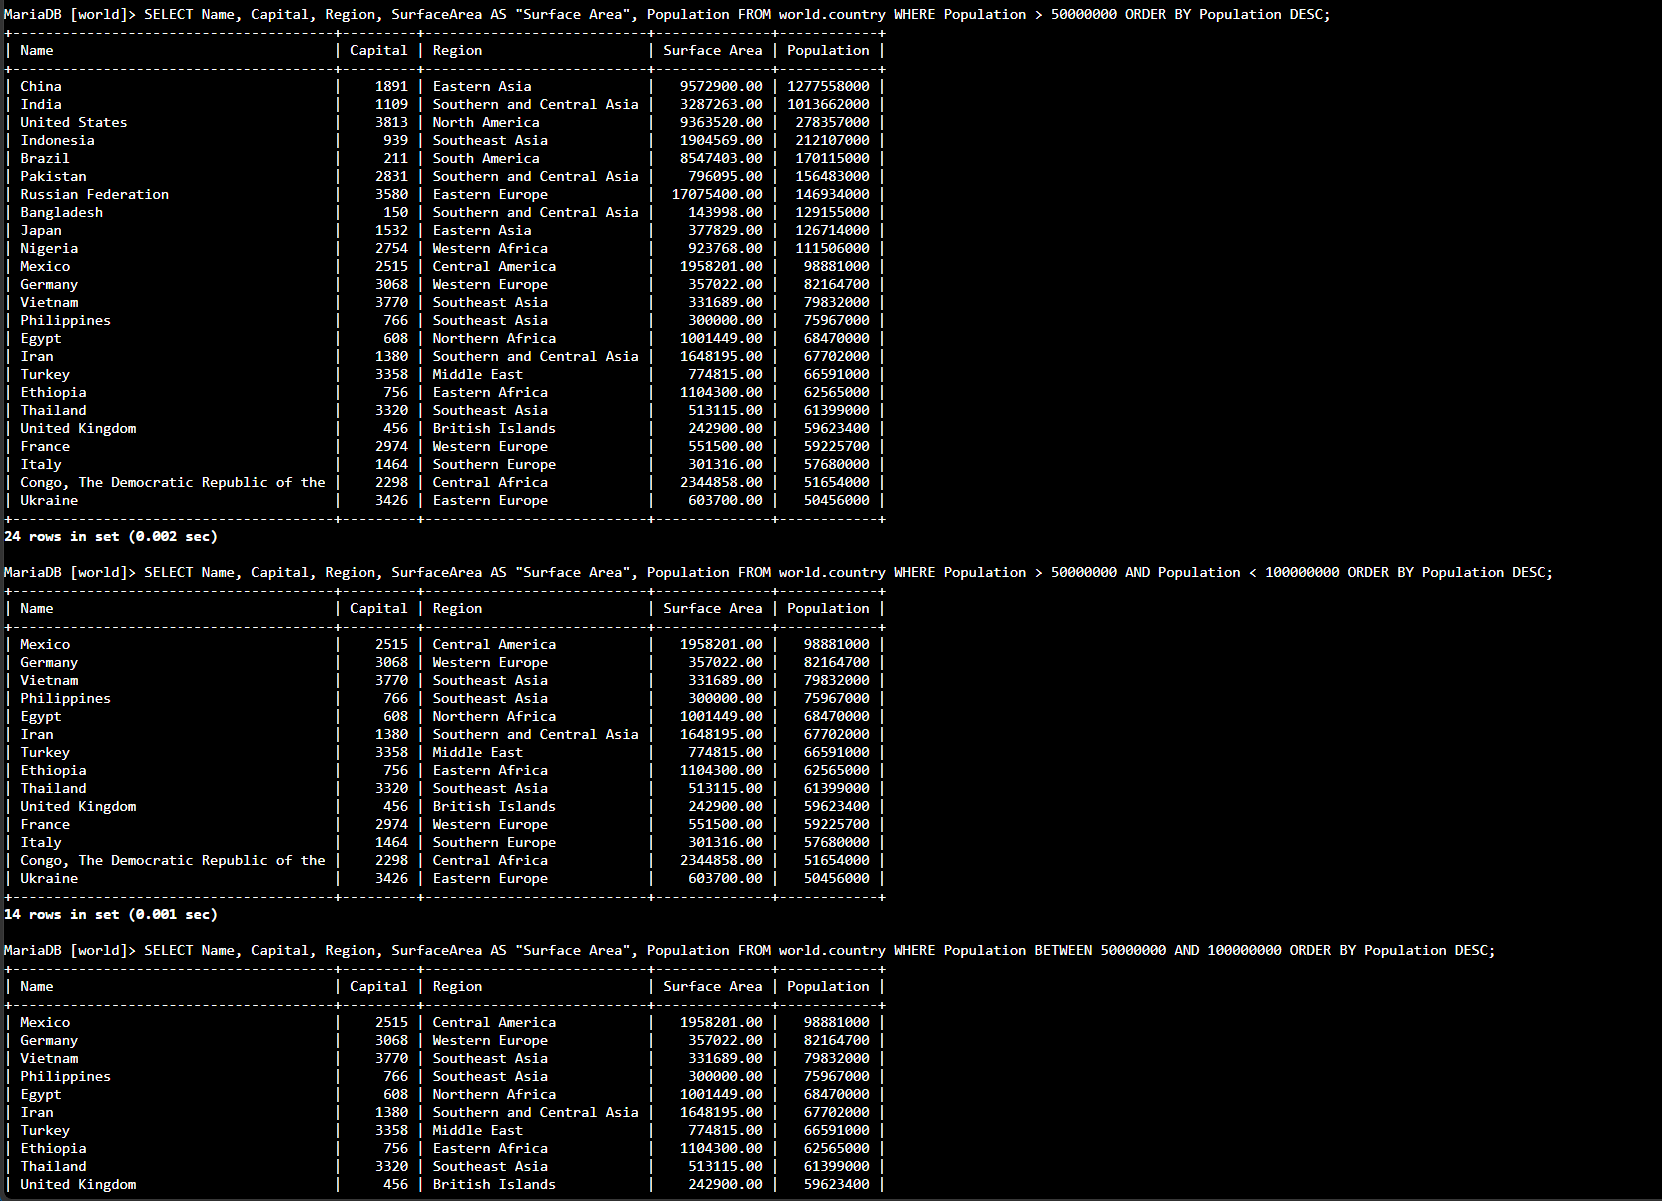
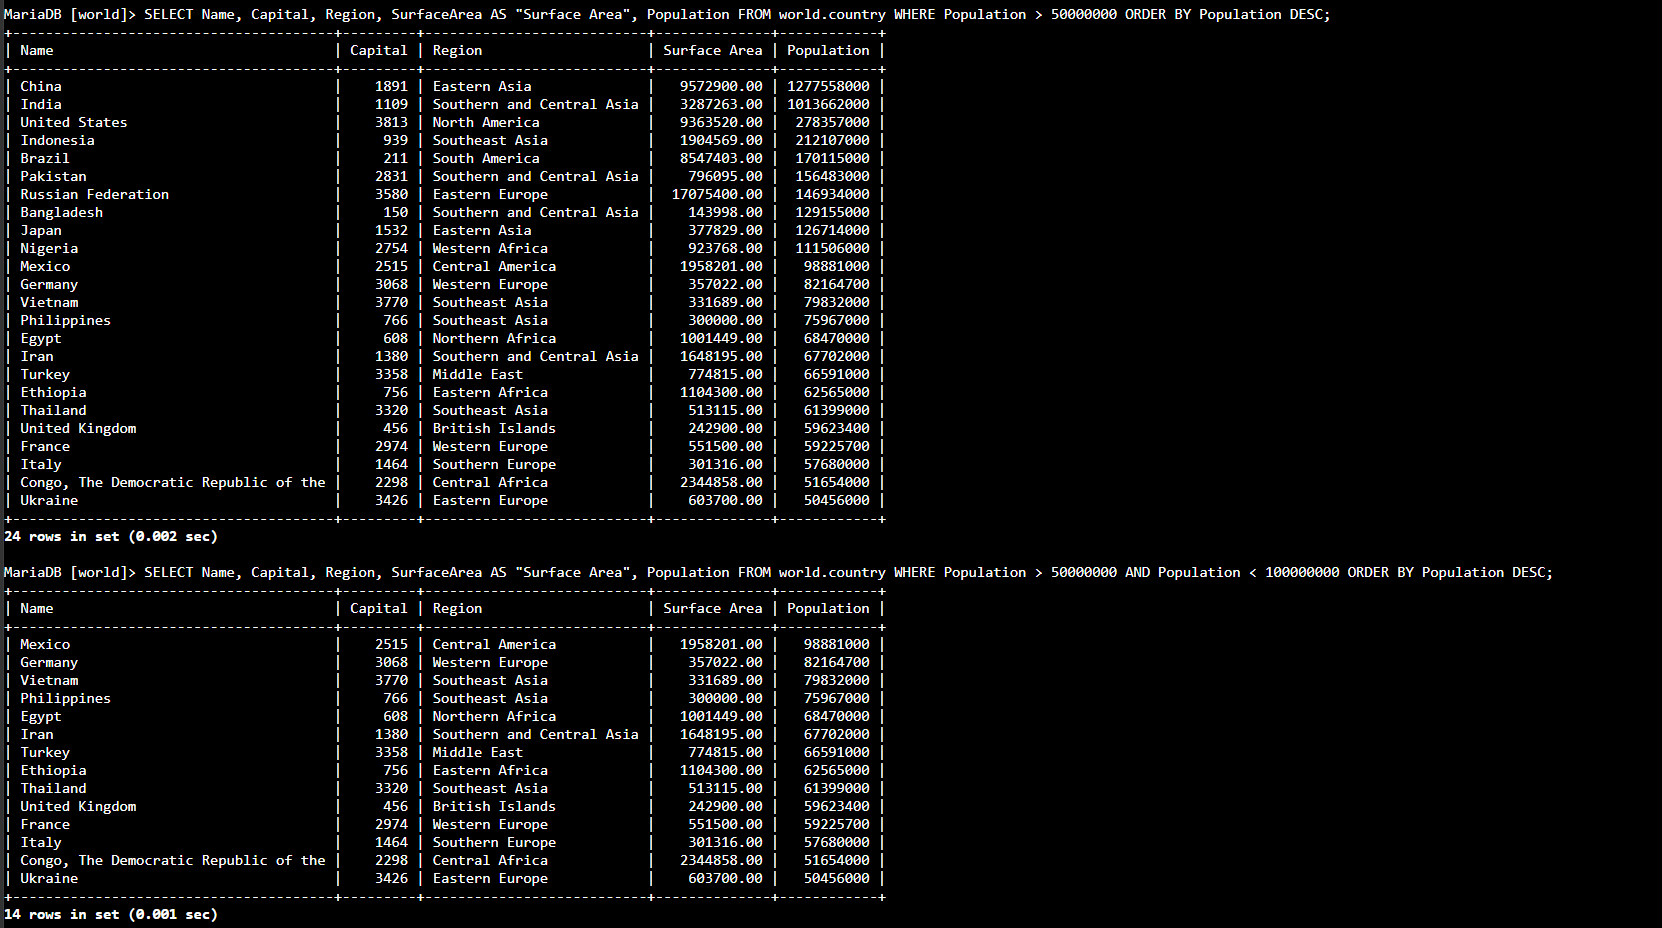
se agregan las imgs de los labs 272 y 273 y el readme del 270

Changed region(s): [[0.0, 0.0, 0.9206, 1.0], [0.7671, 0.4688, 0.9206, 0.5], [0.1227, 0.6875, 0.1534, 0.7188]]

diff --git a/6-modulo-bases-de-datos/3-lab-270-seleccion-de-datos/README.md b/6-modulo-bases-de-datos/3-lab-270-seleccion-de-datos/README.md
@@ -1,0 +1,129 @@
+# Lab 270 Consulta de Datos con Enunciados SELECT en MySQL
+
+![MySQL](https://img.shields.io/badge/Database-MySQL-4479A1?logo=mysql)
+![Amazon EC2](https://img.shields.io/badge/Compute-Amazon%20EC2-FF9900?logo=amazon-aws)
+![AWS Systems Manager](https://img.shields.io/badge/Management-AWS%20Systems%20Manager-232F3E?logo=amazon-aws)
+![Linux](https://img.shields.io/badge/OS-Linux-FCC624?logo=linux)
+
+## Descripción General
+
+En este laboratorio práctico se ejecutaron operaciones de consulta y filtrado sobre una base de datos relacional MySQL en AWS. Para realizar las actividades, se accedió a la instancia *Command Host* mediante **AWS Systems Manager Session Manager** y se utilizaron sentencias de lenguaje de consulta (`SELECT`), funciones de agregación (`COUNT`), alias de columnas (`AS`), ordenamiento (`ORDER BY`) y filtrado avanzado mediante operadores lógicos y de comparación (`WHERE`, `>`, `<`, `=`, `AND`).
+
+## Objetivos del Laboratorio
+
+- Consultar registros en una base de datos relacional mediante la sentencia `SELECT`.
+- Contar el volumen total de filas almacenadas en una tabla con la función de agregación `COUNT()`.
+- Proyectar columnas específicas y renombrar campos en la salida mediante la opción `AS`.
+- Ordenar los conjuntos de resultados de forma ascendente y descendente mediante `ORDER BY` y `DESC`.
+- Aplicar filtros con condiciones múltiples utilizando la cláusula `WHERE` y los operadores `>`, `<`, `=` y `AND`.
+
+## Tarea 1: Conexión al Command Host e Instancia de Base de Datos
+
+Se estableció conexión con la instancia _Command Host_ mediante **AWS Systems Manager Session Manager** y se accedió al motor MySQL.
+
+## Tarea 2: Consultar la Base de Datos World
+
+Previo a la ejecución de consultas, se realizó la conexión al *Command Host* mediante Session Manager, se elevaron privilegios a usuario root (`sudo su`) y se ingresó al motor MySQL (`mysql -u root --password='re:St@rt!9'`).
+
+1) Inspección de las bases de datos disponibles en la instancia:
+
+```sql
+SHOW DATABASES;
+```
+
+2) Consulta de la totalidad de registros almacenados en la tabla `country`:
+
+```sql
+SELECT * FROM world.country;
+```
+
+![Figura 1](./images/1.png)
+_Figura 1: Captura de pantalla de los comandos pasos 1 y 2_
+
+3) Conteo de filas de la tabla mediante la función agregada `COUNT()`:
+
+```sql
+SELECT COUNT(*) FROM world.country;
+```
+
+4) Inspección de la estructura y propiedades de las columnas en la tabla `country`:
+```sql
+SHOW COLUMNS FROM world.country;
+```
+
+5) Proyección de campos específicos (`Name`, `Capital`, `Region`, `SurfaceArea`, `Population`) desde la tabla `country`:
+
+```sql
+SELECT Name, Capital, Region, SurfaceArea, Population FROM world.country;
+```
+
+![Figura 2](./images/2.png)
+_Figura 2: Captura de pantalla de los comandos de los pasos del 3 al 5_
+
+6) Uso de alias de columna mediante la opción `AS` para renombrar campos en el resultado:
+
+```sql
+SELECT Name, Capital, Region, SurfaceArea AS "Surface Area", Population FROM world.country;
+```
+
+7) Ordenamiento de resultados en orden ascendente según el campo `Population`:
+```sql
+SELECT Name, Capital, Region, SurfaceArea AS "Surface Area", Population FROM world.country ORDER BY Population;
+```
+
+![Figura 3](./images/3.png)
+_Figura 3: Captura de pantalla de los comandos del paso 7_
+
+8) Ordenamiento de resultados en orden descendente mediante la opción `DESC`:
+
+```sql
+SELECT Name, Capital, Region, SurfaceArea AS "Surface Area", Population FROM world.country ORDER BY Population DESC;
+```
+
+![Figura 4](./images/4.png)
+_Figura 4: Captura de pantalla de los comandos del paso 8_
+
+9) Aplicación de filtrado simple mediante la cláusula `WHERE` para listar países con una población superior a 50 000 000:
+
+```sql
+SELECT Name, Capital, Region, SurfaceArea AS "Surface Area", Population FROM world.country WHERE Population > 50000000 ORDER BY Population DESC;
+```
+
+10) Construcción de filtros con múltiples condiciones utilizando el operador lógico `AND` para evaluar un rango poblacional entre 50 000 000 y 100 000 000:
+
+```sql
+SELECT Name, Capital, Region, SurfaceArea AS "Surface Area", Population FROM world.country WHERE Population > 50000000 AND Population < 100000000 ORDER BY Population DESC;
+```
+
+![Figura 5](./images/5.png)
+_Figura 5: Captura de pantalla de los comandos de los pasos 9 y 10_
+
+## Desafío: Consulta de Registros Específicos
+Resolución de la consulta orientada a identificar países pertenecientes al Sur de Europa (`Southern Europe`) con una población superior a 50 000 000:
+
+```sql
+SELECT Name, Capital, Region, SurfaceArea AS "Surface Area", Population FROM world.country WHERE Population > 50000000 AND Region = "Southern Europe";
+```
+
+![Figura 6](./images/6.png)
+_Figura 6: Captura de pantalla de los comandos del desafío_
+
+## Resumen de Recursos y Componentes
+
+| Servicio / Recurso | Nombre del Componente | Descripción y Función Técnica |
+| :--- | :--- | :--- |
+| **Amazon EC2** | `Command Host` | Instancia Linux cliente conectada mediante Session Manager para ejecutar el cliente MySQL. |
+| **AWS Systems Manager** | `Session Manager` | Servicio de gestión de acceso seguro a la instancia EC2 sin apertura de puertos SSH públicos. |
+| **MySQL Engine** | Base de Datos `world` | Base de datos relacional utilizada para la ejecución de consultas DQL (*Data Query Language*). |
+| **MySQL Engine** | Tabla `country` | Tabla sobre la cual se aplicaron proyecciones, alias, ordenamientos y filtros lógicos. |
+
+## Evidencia en Video
+
+Mira la ejecución de este laboratorio paso a paso en mi canal de YouTube: \
+[![Ver Video en YouTube](https://img.shields.io/badge/YouTube-Ver_Laboratorio_Práctico-FF0000?style=for-the-badge&logo=youtube)](https://www.youtube.com/watch?v=djZCRbOmph0)
+
+## Conclusiones del Laboratorio
+
+- **Optimización de Consultas de Lectura:** La proyección explícita de columnas sobre un conjunto de datos previene el sobrecoste de transferencia asociado al uso indistinto de `SELECT *`.
+- **Flexibilidad en el Análisis de Datos:** El uso combinado de alias (`AS`), ordenamiento (`ORDER BY`) y filtros lógicos (`WHERE` con `AND`) permite extraer información precisa según los requerimientos operativos del negocio.
+- **Auditoría e Inspección Rápida:** La función `COUNT()` y la inspección de esquemas con `SHOW COLUMNS` son herramientas fundamentales para validar la integridad del volumen de datos almacenado en bases relacionales.

diff --git a/README.md b/README.md
@@ -44,6 +44,10 @@ Documentación práctica, diagramas de arquitectura y evidencias en video de lab
 ### Modulo Bases De Datos
 - ✅ [Lab 268 Operaciones De Tabla De Bases De Datos](./6-modulo-bases-de-datos/1-lab-268-operaciones-de-tabla-de-bases-de-datos/README.md)
 - ✅ [Lab 269 Insertar Actualizar Y Eliminar Datos](./6-modulo-bases-de-datos/2-lab-269-insertar-actualizar-y-eliminar-datos/README.md)
+- ✅ [Lab 270 Seleccion De Datos](./6-modulo-bases-de-datos/3-lab-270-seleccion-de-datos/README.md)
+- ⏳ *(En construcción)* Lab 271 Realizacion De Una Busqueda Condicional
+- ⏳ *(En construcción)* Lab 272 Trabajar Con Funciones
+- ⏳ *(En construcción)* Lab 273 Organizacion De Datos
 
 ---
 ### Tecnologías Utilizadas
